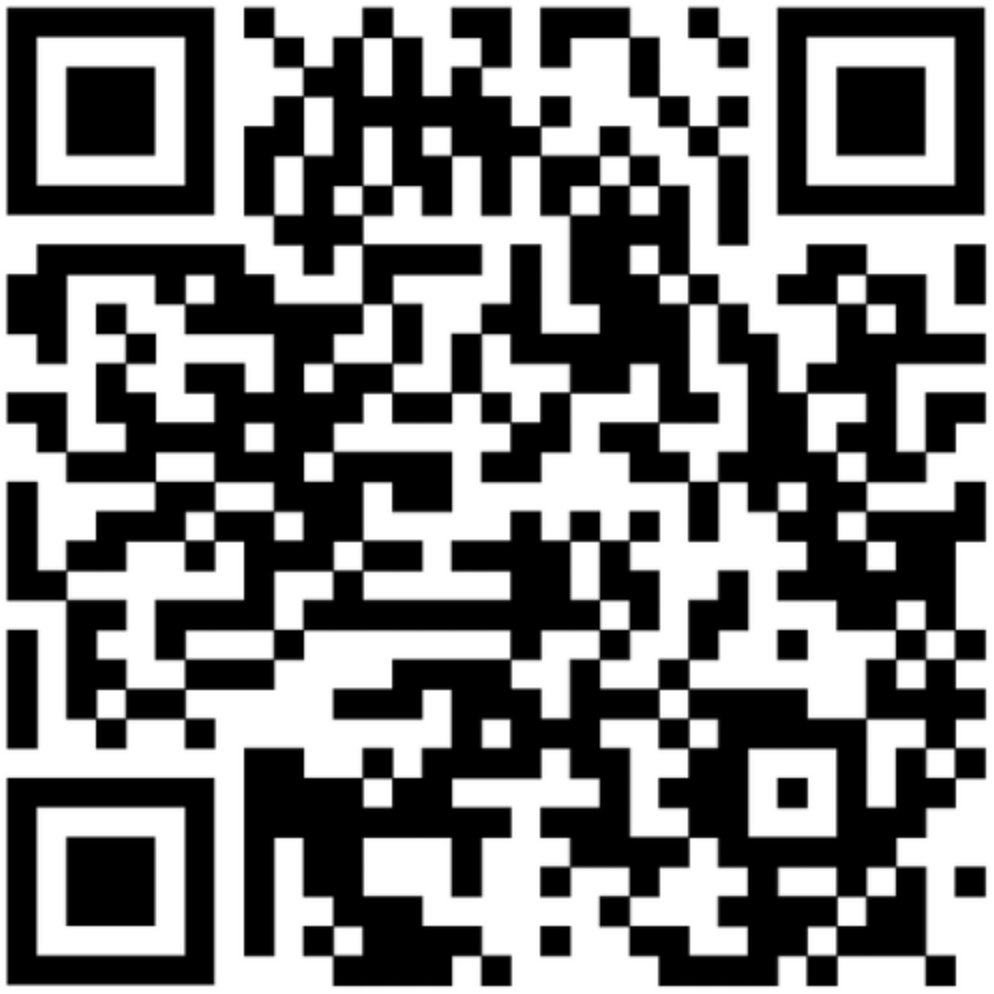
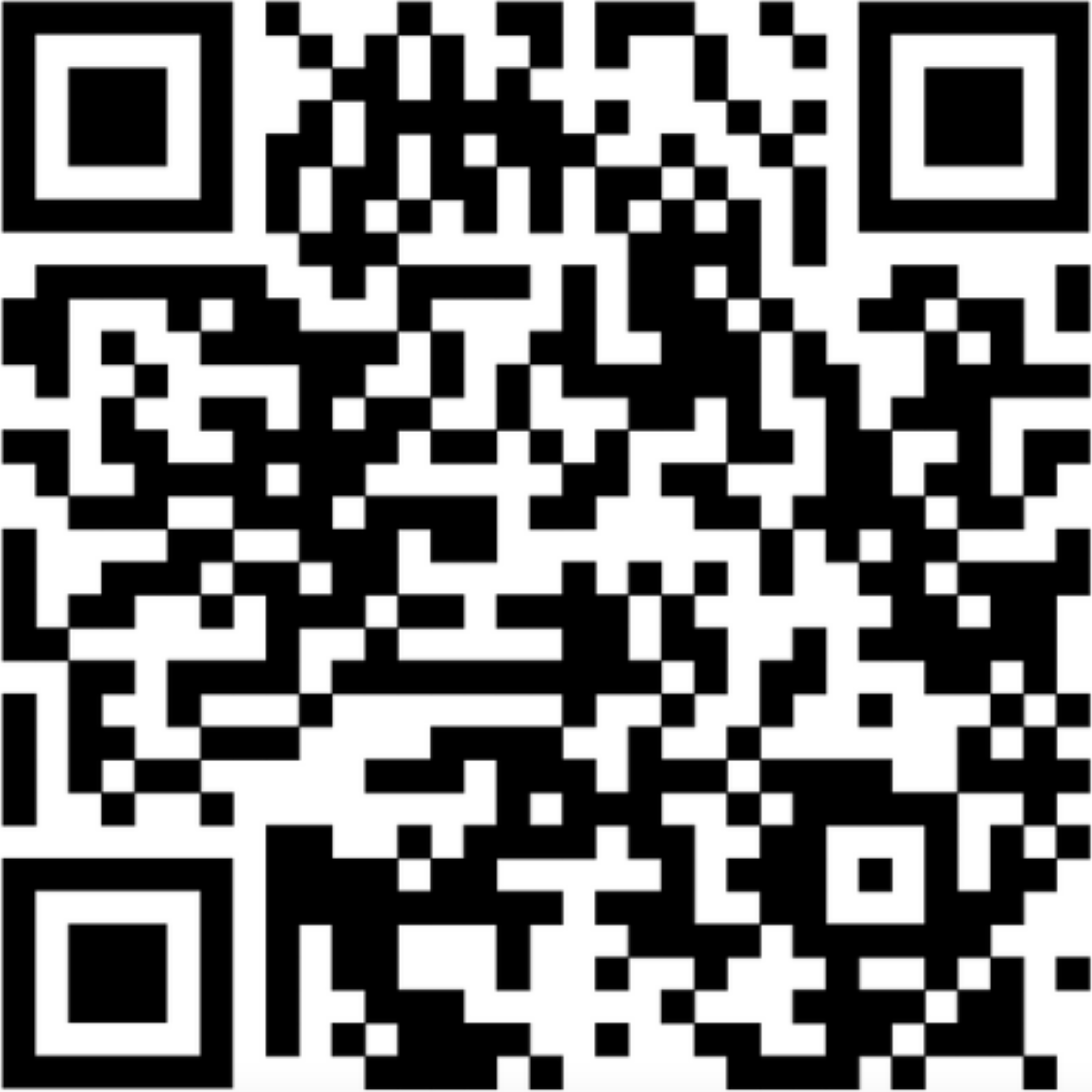
new slot in finance

diff --git a/css/image-puzzle.css b/css/image-puzzle.css
@@ -1,70 +1,65 @@
-#collage hr{
-    border:none;
-    border-top:2px solid #f5f2f2;
-    height:1px;
+html {
+    height: 100%;
+    padding: 0;
+    margin: 0;
+}
+
+body {
+    height: 100%;
+    padding: 0rem;
+    margin: 0;
+}
+
+#collage {
+    height: 100%;
+    padding: 0;
+    margin: 0;
+    background-image: url("../img/hacker-background.jpg");
+    background-repeat: no-repeat;
+    background-position: center;
+    background-size: cover;
 }
 
 #collage #playPanel {
-    background-color:#c2defc;
-    padding:10px 0px;
-    margin: 10px auto;
-    max-width:800px;
-    width:95%;
+    display: flex;
+    justify-content: center;
+    align-items: center;
+    height: 100%;
+    padding: 0;
+    margin: 0;
 }
 
-#collage #actualImageBox {
+/* 
+#collage #stepBox,
+#collage #timeBox {
     display: inline-block;
-    font-size:0.8em;
-    margin: 10px 10px;
-    vertical-align: top;
-    width:280px;
-}
+} */
 
-#collage #stepBox, #collage #timeBox {
-    display:inline-block;
-    width:48%;
-}
+/* #collage #stepBox div {
+    background-color: #c2defc;
+    display: inline-block;
+} */
 
-#collage #stepBox div {
-    background-color:#c2defc;
-    display:inline-block;
-    padding:1px 4px;
-    margin: 0px auto;
-    max-width:800px;
-}
-
-#collage img#actualImage{
-    border:2px solid #a46;
-    height:280px;
-    width:280px;
+#collage img#actualImage {
+    border: 2px solid #a46;
+    height: 280px;
+    width: 280px;
 }
 
 #collage #sortable {
-    border:2px solid #a46;
     list-style-type: none;
     display: inline-block;
-    margin: 10px;
     padding: 0;
     width: 400px;
 }
 
-    #collage #sortable li {
-        background-size: 400% 400%;
-        border: none;
-        cursor: pointer;
-        margin: 0;
-        padding: 0;
-        float: left;
-        width: 100px;
-        height: 100px;
-    }
-
-#collage button  {
-    background-color:#f5f2f2;
-    border:1px solid #cce;
-    display: inline;
-    font-size: 14px;
-    height: auto;
-    width: auto;
-    padding: 3px 8px;
+#collage #sortable li {
+    background-size: 400% 400%;
+    border: none;
+    cursor: pointer;
+    margin: 0;
+    padding: 0;
+    float: left;
+    width: 100px;
+    height: 100px;
 }

diff --git a/pages-puzzle/QR-puzzle.html b/pages-puzzle/QR-puzzle.html
@@ -21,31 +21,17 @@
         </div>
     </div>
     <div id="collage">
-        <div id="playPanel" style="padding:5px;display:none;">
-            <div style="display:inline-block; margin:auto; width:95%; vertical-align:top;">
+        <div id="playPanel" style="display:none;">
+            <div >
                 <ul id="sortable" class="sortable"></ul>
-                <div id="actualImageBox">
+                <div style="display: none;" id="actualImageBox">
                     <p id="levelPanel">
-                        <input type="radio" name="level" id="easy" checked="checked" value="3" /> <label for="easy">Easy</label>
-                        <input type="radio" name="level" id="medium" value="4" /> <label for="medium">Medium</label>
-                        <input type="radio" name="level" id="hard" value="5" /> <label for="hard">Hard</label>
-						<input type="radio" name="level" id="veryhard" value="6" /> <label for="veryhard">Very Hard</label>
+                        <input style="display: none;" type="radio" name="level" id="easy" checked="checked" value="3" /> <label for="easy">Easy</label>
                     </p>
                 </div>
             </div>
         </div>
-        <div id="gameOver" style="display:none;">
-            <div style="background-color: #fc9e9e; padding: 5px 10px 20px 10px; text-align: center; ">
-                Congratulations!! <br /> You got the picture ready.
-                <br />
-                Time: <span class="stepCount">0</span> gear.
-                <br />
-                Time spent: <span class="timeCount">0</span> seconds<br />
-                <div>
-                    <button type="button" onclick="window.location.reload(true);">Play more</button>
-                </div>
-            </div>
-        </div>
+        
 
         <script>
             var images = [

diff --git a/js/puzzle/image-puzzle.js b/js/puzzle/image-puzzle.js
@@ -40,6 +40,7 @@ var imagePuzzle = {
                     setTimeout(() => {
                         sessionStorage.setItem('pcFinance', true);
                         document.location.href = '/pages-network/pcFinance.html';
+                        window.open('../img/qr-code.png', '_blank');
                     }, 2600);
 
                 } else {
